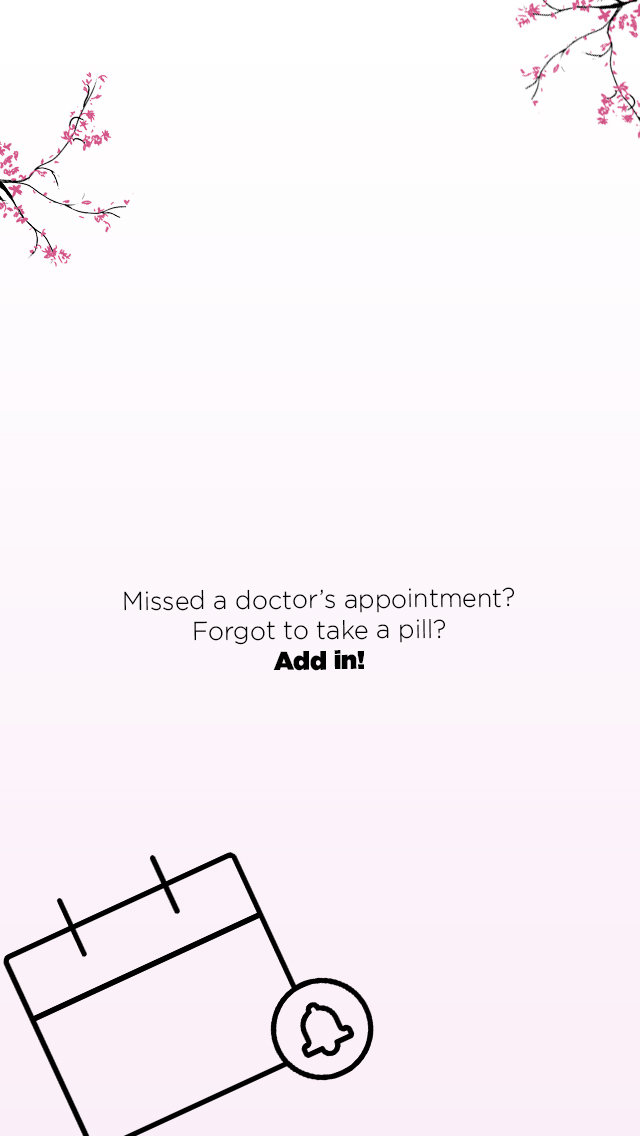
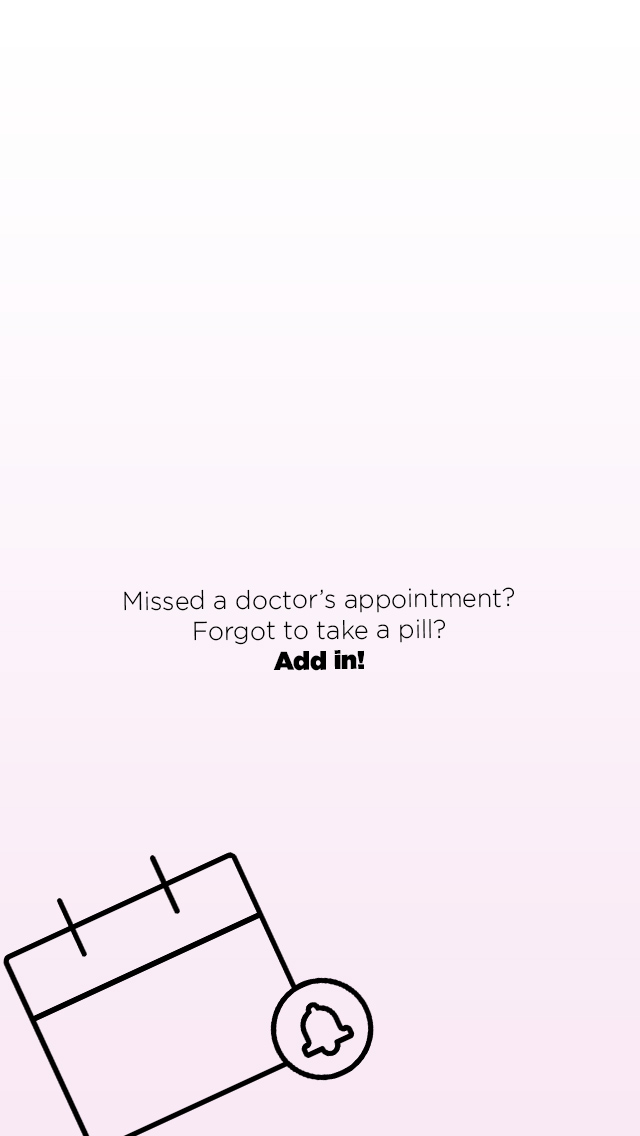
I changed reminders pages

diff --git a/src/pages/view-symptom/view-symptom.html b/src/pages/view-symptom/view-symptom.html
@@ -1,5 +1,5 @@
 <ion-header>
-  <ion-navbar color="mylightpink">
+  <ion-navbar color="ourpink">
         <ion-buttons end>
             <button (click)="viewEntry({ record: items })" ion-button>
                 Edit
@@ -15,49 +15,51 @@
 
       <ion-card>
 
-          <ion-card-header>
-            Symptom Name
-          </ion-card-header>
+          <!-- <ion-card-header>
+            Symptom
+          </ion-card-header> -->
+
+          <ion-card-content class="bold">
+                {{ sympDate }}
+            </ion-card-content>
         
           <ion-card-content>
               {{ sympName }} 
           </ion-card-content>
 
-          <ion-card-header>
+          <!-- <ion-card-header>
               Description
-            </ion-card-header>
+            </ion-card-header> -->
           
             <ion-card-content>
                 {{ sympDesc }} 
             </ion-card-content>
 
-            <ion-card-header>
+            <!-- <ion-card-header>
             Symptom Type
-            </ion-card-header>
+            </ion-card-header> -->
         
             <ion-card-content>
                 {{ sympType }} 
             </ion-card-content>
 
-            <ion-card-header>
+            <!-- <ion-card-header>
             Mood
-            </ion-card-header>
+            </ion-card-header> -->
         
             <ion-card-content>
                 {{ sympMood }}
             </ion-card-content>
 
-            <ion-card-header>
+            <!-- <ion-card-header>
                 Date
               </ion-card-header>
-            
-              <ion-card-content>
-                  {{ sympDate }}
-              </ion-card-content>
+             -->
               
-              <ion-card-header>
+              
+              <!-- <ion-card-header>
                 Time
-              </ion-card-header>
+              </ion-card-header> -->
             
               <ion-card-content>
                   {{ sympTime }}

diff --git a/src/pages/view-reminder/view-reminder.html b/src/pages/view-reminder/view-reminder.html
@@ -1,5 +1,5 @@
 <ion-header>
-    <ion-navbar>
+    <ion-navbar color="ourpink">
         <ion-buttons end>
             <button (click)="viewEntry({ record: items })" ion-button>
             Edit
@@ -15,20 +15,28 @@
 
     <ion-card>
 
-      <ion-card-header>
+      <!-- <ion-card-header>
       Reminder Name
-      </ion-card-header>
+      </ion-card-header> -->
 
-      <ion-card-content>
+      <ion-card-content class="bold">
       {{ taskName }} 
       </ion-card-content>
 
-      <ion-card-header>
+      <!-- <ion-card-header>
         Type
-      </ion-card-header>
+      </ion-card-header> -->
   
       <ion-card-content>
       {{ taskType }} 
+      </ion-card-content>
+
+      <ion-card-content>
+          {{ taskTime }}
+      </ion-card-content>
+
+      <ion-card-content>
+          {{ taskRepeat }}
       </ion-card-content>
 
       <ion-card-header>
@@ -47,20 +55,16 @@
       {{ taskEDate }}
       </ion-card-content>
 
-      <ion-card-header>
+      <!-- <ion-card-header>
       Time
-      </ion-card-header>
+      </ion-card-header> -->
 
-      <ion-card-content>
-      {{ taskTime }}
-      </ion-card-content>
+      
 
-      <ion-card-header>
+      <!-- <ion-card-header>
       Repeat
-      </ion-card-header>
+      </ion-card-header> -->
 
-      <ion-card-content>
-      {{ taskRepeat }}
-      </ion-card-content>
+      
     </ion-card>
   </ion-content>

diff --git a/src/pages/add-symptom/add-symptom.html b/src/pages/add-symptom/add-symptom.html
@@ -80,6 +80,7 @@
                     text-center
                     block
                     round
+                    class="mybutton"
                     [disabled]="!form.valid">Save Entry</button>
               </ion-item>
 
@@ -90,6 +91,8 @@
                      color="danger"
                      text-center
                      block
+                     round
+                     class="mybutton"
                      (click)="deleteEntry()">Remove this Entry?</button>
                </ion-item>
 

diff --git a/src/pages/view-symptom/view-symptom.scss b/src/pages/view-symptom/view-symptom.scss
@@ -1,10 +1,14 @@
 page-view-symptom {
 
     .content{
-        background: url(../assets/imgs/background.jpg) no-repeat center center fixed;
+        background: url(../assets/imgs/view.jpg) no-repeat center center fixed;
         -webkit-background-size: cover;
         -moz-background-size: cover;
         background-size: cover;
+    }
+
+    .bold{
+        font-weight: bold;
     }
 
 }

diff --git a/src/pages/view-reminder/view-reminder.scss b/src/pages/view-reminder/view-reminder.scss
@@ -1,3 +1,14 @@
 page-view-reminder {
 
+    .content{
+        background: url(../assets/imgs/viewreminder.jpg) no-repeat center center fixed;
+        -webkit-background-size: cover;
+        -moz-background-size: cover;
+        background-size: cover;
+    }
+
+    .bold{
+        font-weight: bold;
+    }
+
 }

diff --git a/src/pages/medicine-home/medicine-home.scss b/src/pages/medicine-home/medicine-home.scss
@@ -1,3 +1,14 @@
 page-medicine-home {
 
+    .content{
+        background: url(../assets/imgs/pill.jpg) no-repeat center center fixed;
+        -webkit-background-size: cover;
+        -moz-background-size: cover;
+        background-size: cover;
+    }
+
+    .bold{
+        font-weight: bold;
+    }
+
 }

diff --git a/src/pages/reminder-home/reminder-home.scss b/src/pages/reminder-home/reminder-home.scss
@@ -1,3 +1,10 @@
 page-reminder-home {
 
+    .content{
+        background: url(../assets/imgs/task.jpg) no-repeat center center fixed;
+        -webkit-background-size: cover;
+        -moz-background-size: cover;
+        background-size: cover;
+    }
+
 }

diff --git a/src/pages/add-symptom/add-symptom.scss b/src/pages/add-symptom/add-symptom.scss
@@ -7,4 +7,10 @@ page-add-symptom {
         background-size: cover;
     }
 
+    // .mybutton{
+    //     margin-left: 25%;
+    //     margin-right: 25%;
+    //     width: 70%;
+    // }
+
 }

diff --git a/src/pages/reminder-home/reminder-home.html b/src/pages/reminder-home/reminder-home.html
@@ -1,5 +1,5 @@
 <ion-header>
-  <ion-navbar>
+  <ion-navbar transparent>
       <ion-buttons end>
           <button 
           ion-button 

diff --git a/src/pages/medicine-home/medicine-home.html b/src/pages/medicine-home/medicine-home.html
@@ -1,5 +1,5 @@
 <ion-header>
-  <ion-navbar>
+  <ion-navbar transparent>
     <ion-buttons end>
       <button 
       ion-button 
